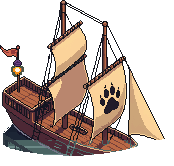
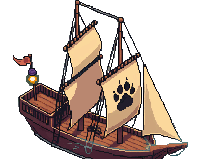
Give the ship her whole compass and put her feet in the water
The old views were rotations of a hull that had water painted into it, cut
apart along guessed keel lines; two of the four had no lower hull left at
all. Rebuilt from the source: erased the painted sea and reflections off
the master, inpainted a complete dry hull with keel, then rotated THAT.
The rotation sweep only orbits the camera-facing half, so the stern
quarter comes from a second sweep seeded with the east view. Eight views
now, one per screen octant, each cut at a straight horizontal waterline
the way water actually meets a hull, palette-matched, and hugged by a
foam ring sized to that view's silhouette so the bow-on headings stop
reading like stickers.

Mechanics got the matching rule: everything the player touches on deck --
the walk frame, the helm, the rails, boarding and landing geometry, wake
spawn points -- now lives in the DRAWN view's axis, never the physics
angle. Mixing the two is what slid Thor around a static image at the
wheel. Steering keeps the continuous heading but the rudder is inertial
now, blocked bows glide along the obstacle instead of killing the
throttle, and S past zero backs her straight off a grounding. Landing on
the dock by the berth still moors her home; anywhere else she stays
anchored right where you left her instead of teleporting across the bay.

diff --git a/src/game/BeachIso.tsx b/src/game/BeachIso.tsx
@@ -786,15 +786,20 @@ export default function BeachIso({ onStage }: { onStage?: (s: BeachStage) => voi
       // Views in screen-octant order 0 E, 1 SE, 2 S, 3 SW, 4 W, 5 NW, 6 N, 7 NE
       // (scripts/_archive/ship_views_v5.py measures the lamp per view; ay=1 -> the
       // texture's bottom row IS the waterline).
-      const SHIPMETA = [
-        { ay: 1, deckH: 26, lampX: 15, lampY: -82 },  // E
-        { ay: 1, deckH: 26, lampX: 5, lampY: -50 },   // SE
-        { ay: 1, deckH: 26, lampX: 23, lampY: -52 },  // S
-        { ay: 1, deckH: 26, lampX: 10, lampY: -57 },  // SW
-        { ay: 1, deckH: 26, lampX: -10, lampY: -82 }, // W
-        { ay: 1, deckH: 26, lampX: 1, lampY: -89 },   // NW
-        { ay: 1, deckH: 26, lampX: 0, lampY: -106 },  // N
-        { ay: 1, deckH: 26, lampX: 6, lampY: -91 },   // NE
+      // uClamp = the DRAWN stand-point range on bow-on/stern-on views, where the true
+      // helm (deep astern) would project Thor onto the sail stack — visual only, the
+      // logical u (rails, disembark) is untouched
+      // w = each view's drawn hull width, so the waterline foam ring hugs the silhouette
+      // (one 152px ring under a 73px bow-on hull was why the S/N headings read floating)
+      const SHIPMETA: { ay: number; deckH: number; lampX: number; lampY: number; w: number; uClamp?: [number, number] }[] = [
+        { ay: 1, deckH: 26, lampX: 5, lampY: -50, w: 175 },   // E
+        { ay: 1, deckH: 26, lampX: 6, lampY: -91, w: 100 },   // SE
+        { ay: 1, deckH: 26, lampX: 0, lampY: -106, w: 73, uClamp: [-0.5, 0.6] },  // S
+        { ay: 1, deckH: 26, lampX: 10, lampY: -57, w: 173 },  // SW
+        { ay: 1, deckH: 26, lampX: -5, lampY: -50, w: 175 },  // W
+        { ay: 1, deckH: 26, lampX: -13, lampY: -51, w: 162 }, // NW
+        { ay: 1, deckH: 26, lampX: 3, lampY: -90, w: 84, uClamp: [-0.5, 0.6] },   // N
+        { ay: 1, deckH: 26, lampX: -16, lampY: -77, w: 158 }, // NE
       ]
       // the visual mid-deck only (the sterncastle and bow are not walkable), helm at the
       // quarterdeck front
@@ -1133,20 +1138,20 @@ export default function BeachIso({ onStage }: { onStage?: (s: BeachStage) => voi
       // THE DELIVERING WAVE: the bottle rides the REAL tide — waits for the next front to break
       // at its column, surges up the film's leading edge rolling as it comes, and settles in the
       // wet band when the water lets go of it. Returns a done-poll for the runtime.
-      let bottleWave: null | { d: number; sBeach: number; phase: 'wait' | 'ride' | 'settled'; peak: number } = null
+      let bottleWave: null | { d: number; sBeach: number; phase: 'wait' | 'ride' | 'settled'; from: number; peakS: number } = null
       const csCall = (name: string, data?: unknown): (() => boolean) | void => {
         if (name === 'bottleWave') {
           const o = (data ?? {}) as { d?: number; instant?: boolean }
           const d = o.d ?? 3
-          const sBeach = shoreAt(d) + TIDE_AMP * 0.82
+          const sBeach = shoreAt(d) + TIDE_AMP * 0.72 // comfortably inside the wave's max reach
           csActorEnsure('bottle', '/art/intro/props/bottle.png', 0.30)
           if (o.instant) {
             bottleWave = null
             csActorPlace('bottle', (sBeach + d) / 2, (sBeach - d) / 2)
             return
           }
-          csActorPlace('bottle', (shoreAt(d) - 2 + d) / 2, (shoreAt(d) - 2 - d) / 2) // bobbing offshore
-          bottleWave = { d, sBeach, phase: 'wait', peak: 0 }
+          csActorPlace('bottle', (shoreAt(d) - 1.6 + d) / 2, (shoreAt(d) - 1.6 - d) / 2) // bobbing offshore
+          bottleWave = { d, sBeach, phase: 'wait', from: shoreAt(d) - 1.6, peakS: -1e9 }
           return () => bottleWave === null || bottleWave.phase === 'settled'
         }
         if (name === 'hideBottle') {
@@ -1286,7 +1291,7 @@ export default function BeachIso({ onStage }: { onStage?: (s: BeachStage) => voi
         }
         // ---- THE BOAT: pilot, deck-walk, prompts, hop arcs, wake ----
         hopJy = 0; bobOff = 0
-        let deckMoved = false
+        let deckMoved = false, boatBlocked = false
         if (veh) {
           const V = veh
           const bt = at / 1000
@@ -1303,18 +1308,32 @@ export default function BeachIso({ onStage }: { onStage?: (s: BeachStage) => voi
             const dtc = Math.min(dt, 2)
             const steer = ((keys['d'] || keys['arrowright']) ? 1 : 0) - ((keys['a'] || keys['arrowleft']) ? 1 : 0)
             V.rud += (steer - V.rud) * Math.min(1, 0.085 * dtc)
-            if (Math.abs(V.rud) > 0.003) V.ang += V.rud * (0.011 + 0.012 * (V.spd / 0.08)) * dtc
+            if (Math.abs(V.rud) > 0.003) V.ang += V.rud * (0.014 + 0.014 * (Math.abs(V.spd) / 0.08)) * dtc
             if (keys['w'] || keys['arrowup']) V.spd = Math.min(0.08, V.spd + 0.0022 * dtc)
-            else if (keys['s'] || keys['arrowdown']) V.spd = Math.max(0, V.spd - 0.004 * dtc)
-            else V.spd = Math.max(0, V.spd - 0.0008 * dtc)
+            // S through zero = SLOW ASTERN: a hull nosed into a pocket the rudder can't
+            // swing out of backs straight off it, the move every sailor reaches for
+            else if (keys['s'] || keys['arrowdown']) V.spd = Math.max(-0.032, V.spd - 0.004 * dtc)
+            else V.spd = V.spd > 0 ? Math.max(0, V.spd - 0.0008 * dtc) : Math.min(0, V.spd + 0.002 * dtc)
             setBucket(V)
-          } else { V.rud *= Math.max(0, 1 - 0.1 * Math.min(dt, 2)); V.spd = Math.max(0, V.spd - 0.004 * Math.min(dt, 2)) }
-          if (V.spd > 0.0001) {
+          } else { V.rud *= Math.max(0, 1 - 0.1 * Math.min(dt, 2)); V.spd += (0 - V.spd) * Math.min(1, 0.05 * Math.min(dt, 2)) }
+          if (Math.abs(V.spd) > 0.0001) {
             const step = V.spd * Math.min(dt, 2)
-            const nbx = V.tx + Math.cos(V.ang) * step, nby = V.ty + Math.sin(V.ang) * step
-            const p1 = boatPen(nbx, nby)
-            if (p1 <= 1e-4 || p1 < boatPen(V.tx, V.ty) - 1e-4) { V.tx = nbx; V.ty = nby }
-            else V.spd = 0 // thunk: shallows, the pier, a rock, another hull
+            const c7 = Math.cos(V.ang), s7 = Math.sin(V.ang)
+            const p0 = boatPen(V.tx, V.ty)
+            const tryMove = (nx: number, ny: number) => {
+              const p1 = boatPen(nx, ny)
+              if (p1 <= 1e-4 || p1 < p0 - 1e-4) { V.tx = nx; V.ty = ny; return true }
+              return false
+            }
+            // blocked ahead: GLIDE along the blocker on whichever axis still passes (the
+            // walker's own trick), bleeding way instead of killing the throttle — a hull
+            // that zeroed spd on contact sat DEAD at every obstacle until the bow had been
+            // slow-turned fully clear
+            if (!tryMove(V.tx + c7 * step, V.ty + s7 * step)) {
+              const slid = tryMove(V.tx + c7 * step * 0.7, V.ty) || tryMove(V.tx, V.ty + s7 * step * 0.7)
+              V.spd *= slid ? 0.985 : 0.8 // sign-safe: astern bleeds and retries the same way
+              boatBlocked = true // grounded/pinned: the bow gets slow lapping foam
+            }
           }
           // deck walking: WASD mapped into the hull frame, clamped at the rails — Thor can
           // never step off the gunwale into open water. The walk anim only plays when he
@@ -1341,9 +1360,12 @@ export default function BeachIso({ onStage }: { onStage?: (s: BeachStage) => voi
             hopJy = -34 * Math.sin(Math.PI * k)
             if (k >= 1) {
               if (hp.to === 'land') {
-                // left the boat: stepping onto the DOCK means docking (the ship snaps home
-                // to its berth); near the berth it also snaps; anywhere else it anchors
-                if (hp.landLayer === 1 || Math.hypot(V.tx - V.berthTx, V.ty - V.berthTy) < 1.6) { V.tx = V.berthTx; V.ty = V.berthTy; V.ang = Math.PI; setBucket(V, true); V.state = 'moored' }
+                // left the boat: stepping onto the DOCK near the berth means docking (the
+                // ship snaps the last stretch home); anywhere else — mid-pier, the beach —
+                // she stays ANCHORED where she was left (an on-screen teleport home from
+                // across the bay read as a glitch)
+                const berthD = Math.hypot(V.tx - V.berthTx, V.ty - V.berthTy)
+                if ((hp.landLayer === 1 && berthD < 6) || berthD < 1.6) { V.tx = V.berthTx; V.ty = V.berthTy; V.ang = Math.PI; setBucket(V, true); V.state = 'moored' }
                 else V.state = 'anchored'
               }
               V.hop = null
@@ -1354,7 +1376,8 @@ export default function BeachIso({ onStage }: { onStage?: (s: BeachStage) => voi
               const { c: c3, s: s3 } = dBasis(V)
               facing = dirFromAngle((c3 - s3) * HW, (c3 + s3) * HH) // face where the DRAWN bow points
             }
-            const w2 = deckWorld(V, V.u, V.v)
+            const uc = SHIPMETA[V.bucket]?.uClamp
+            const w2 = deckWorld(V, uc ? Math.max(uc[0], Math.min(uc[1], V.u)) : V.u, V.v)
             pos.tx = w2.tx; pos.ty = w2.ty
             bobOff = V.bob
           }
@@ -1394,7 +1417,9 @@ export default function BeachIso({ onStage }: { onStage?: (s: BeachStage) => voi
                 if (V.u < -(UMAX - 0.16)) dirs2.push([-c5, -s5])
                 let landing: { tx: number; ty: number; lift: number; layer: number } | null = null
                 for (const [ox, oy] of dirs2) {
-                  for (const k2 of [1.0, 1.6, 2.2, 2.8, 3.4, 4.0, 4.2]) {
+                  // out to 5.4: the wet swash strip is unwalkable and up to ~2 tiles wide, so a
+                  // beach landing can honestly need a long bow leap over it onto dry sand
+                  for (const k2 of [1.0, 1.6, 2.2, 2.8, 3.4, 4.0, 4.2, 4.8, 5.4]) {
                     const cxt = pos.tx + ox * k2, cyt = pos.ty + oy * k2
                     const sfc = surfAt(Math.round(cxt), Math.round(cyt))
                     if (!sfc.walk || collideMove(cxt, cyt, cxt, cyt)) continue
@@ -1430,14 +1455,17 @@ export default function BeachIso({ onStage }: { onStage?: (s: BeachStage) => voi
           V.hull.position.set(bxp, byp + V.bob)
           V.hull.zIndex = bz
           V.ring.position.set(bxp, byp + 6)
-          V.ring.zIndex = bz - 2
-          V.ring.alpha = 0.3 + 0.1 * Math.sin(bt * 0.55 + 1.1) + Math.min(0.25, V.spd * 3)
-          V.ring.width = 130 + Math.min(60, V.spd * 500); V.ring.height = V.ring.width * 0.23
+          V.ring.zIndex = bz - 1
+          V.ring.alpha = 0.42 + 0.1 * Math.sin(bt * 0.55 + 1.1) + Math.min(0.25, Math.abs(V.spd) * 3)
+          const rw = M.w * 1.22 + Math.min(60, Math.abs(V.spd) * 500)
+          V.ring.width = rw
+          // narrow bow-on hulls get a rounder pool so the contact still reads
+          V.ring.height = Math.max(rw * 0.23, M.w < 110 ? 38 : 0)
           const gl = glows[V.glowI]
           gl.sp.position.set(bxp + M.lampX, byp + M.lampY + V.bob)
           gl.sp.zIndex = bz + 3
           // WAKE: bow spray both sides + stern wash while under way, drifting out and astern
-          if (V.spd > 0.03 && bt - lastPuff > 0.055) {
+          if ((V.spd > 0.03 || (boatBlocked && Math.abs(V.spd) > 0.004)) && bt - lastPuff > 0.055 / (1 + Math.abs(V.spd) * 10)) { // denser at speed; grounded = slow lapping
             lastPuff = bt + (hash(V.tx * 7.1, bt) - 0.5) * 0.02
             const c6 = Math.cos(V.ang), s6 = Math.sin(V.ang) // drift follows the TRUE motion
             const { c: cD, s: sD } = dBasis(V)               // spawn points hug the DRAWN hull
@@ -1450,7 +1478,7 @@ export default function BeachIso({ onStage }: { onStage?: (s: BeachStage) => voi
               const tvy = pyd * ovx * 0.55 - s6 * (stern ? 0.9 : 0.35)
               const sp3 = new Sprite(shadowTexLife)
               sp3.anchor.set(0.5); sp3.tint = 0xeafff6; sp3.blendMode = 'add'
-              const s0 = (stern ? 44 : 24) * (0.7 + V.spd * 6)
+              const s0 = (stern ? 50 : 28) * (0.7 + Math.abs(V.spd) * 6)
               sp3.width = s0; sp3.height = s0 * 0.45
               sp3.position.set(isoX(w3.tx, w3.ty), isoY(w3.tx, w3.ty) + 4)
               // above the aerial veil strip of its own row, or the wash swallows the foam
@@ -1465,7 +1493,7 @@ export default function BeachIso({ onStage }: { onStage?: (s: BeachStage) => voi
             const k3 = p.age / p.life
             if (k3 >= 1) { p.sp.destroy(); wakeFx.splice(i, 1); continue }
             p.sp.x += p.vx * tk.deltaMS; p.sp.y += p.vy * tk.deltaMS
-            p.sp.alpha = 0.7 * (1 - k3)
+            p.sp.alpha = 0.85 * (1 - k3) // strong enough to read on the bright shallows too
             p.sp.width = p.s0 * (1 + k3 * 1.6); p.sp.height = p.sp.width * 0.45
           }
         }
@@ -1580,23 +1608,31 @@ export default function BeachIso({ onStage }: { onStage?: (s: BeachStage) => voi
             const uu = ((u % TIDE_T) + TIDE_T) % TIDE_T
             const [reach] = tidePhase(u)
             if (b.phase === 'wait') {
-              // bob gently beyond the waterline until a fresh wave launches
-              const s0 = shoreAt(b.d) - 1.6 + 0.12 * Math.sin(wt * 1.1)
+              // drift gently beyond the waterline until a fresh wave launches
+              const s0 = b.from + 0.12 * Math.sin(wt * 1.1)
               csActorPlace('bottle', (s0 + b.d) / 2, (s0 - b.d) / 2)
-              ba.sp.rotation = 0.16 * Math.sin(wt * 1.3)
-              if (uu < 0.12) b.phase = 'ride'
+              ba.sp.rotation = 0.14 * Math.sin(wt * 1.3)
+              if (uu < 0.12) { b.phase = 'ride'; b.from = s0 }
             } else if (b.phase === 'ride') {
-              const sFront = shoreAt(b.d) + reach * TIDE_AMP
-              if (sFront >= b.sBeach) b.peak = 1
-              const s = Math.min(b.sBeach, sFront)
-              csActorPlace('bottle', (s + b.d) / 2, (s - b.d) / 2)
-              if (b.peak < 1) ba.sp.rotation += 0.13 * (tk.deltaMS / 16)  // rolling in with the water
-              else ba.sp.rotation *= Math.max(0, 1 - tk.deltaMS / 260)     // grounded: the roll dies out
-              if (b.peak === 1 && uu > 3.6) {                              // the water has let go
+              // the bottle trails just behind the foam edge and can only ever move UP the
+              // sand: eased pickup from its drift spot, grounded at its furthest reach —
+              // no teleport when the wave launches, no slide-back when it retracts
+              const sFront = shoreAt(b.d) + reach * TIDE_AMP - 0.3
+              const k = Math.min(1, uu / 1.5)
+              const carry = b.from + (Math.min(b.sBeach, sFront) - b.from) * (k * k * (3 - 2 * k))
+              b.peakS = Math.max(b.peakS, carry)
+              csActorPlace('bottle', (b.peakS + b.d) / 2, (b.peakS - b.d) / 2)
+              // a nudged rock while the water still covers it, dying as the film drains
+              const cover = Math.max(0, Math.min(1, (sFront + 0.3 - b.peakS) * 1.6))
+              ba.sp.rotation = 0.26 * Math.sin(wt * 4.2 + b.d) * cover
+              if (b.peakS >= b.sBeach - 0.05 && uu > 3.6) {   // beached and the water has let go
                 ba.sp.rotation = 0
                 csActorPlace('bottle', (b.sBeach + b.d) / 2, (b.sBeach - b.d) / 2)
                 csFx('glint', { x: (b.sBeach + b.d) / 2, y: (b.sBeach - b.d) / 2 })
                 b.phase = 'settled'
+              } else if (uu > 6.8 && b.peakS < b.sBeach - 0.05) {
+                // this wave fell short: slip back to the drift line and wait for the next
+                b.phase = 'wait'; b.from = shoreAt(b.d) - 1.6; b.peakS = -1e9
               }
             }
           }
